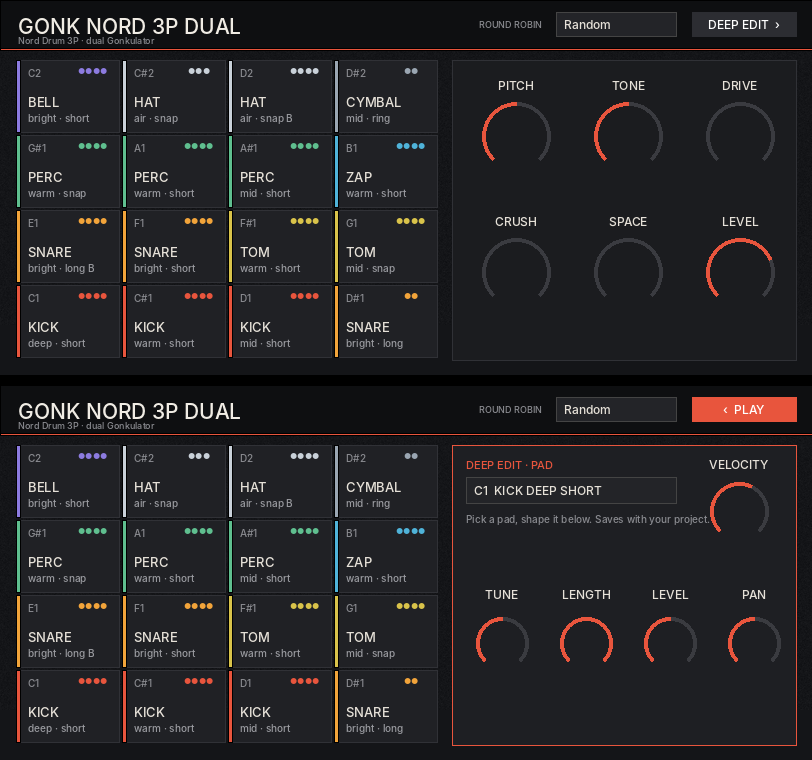
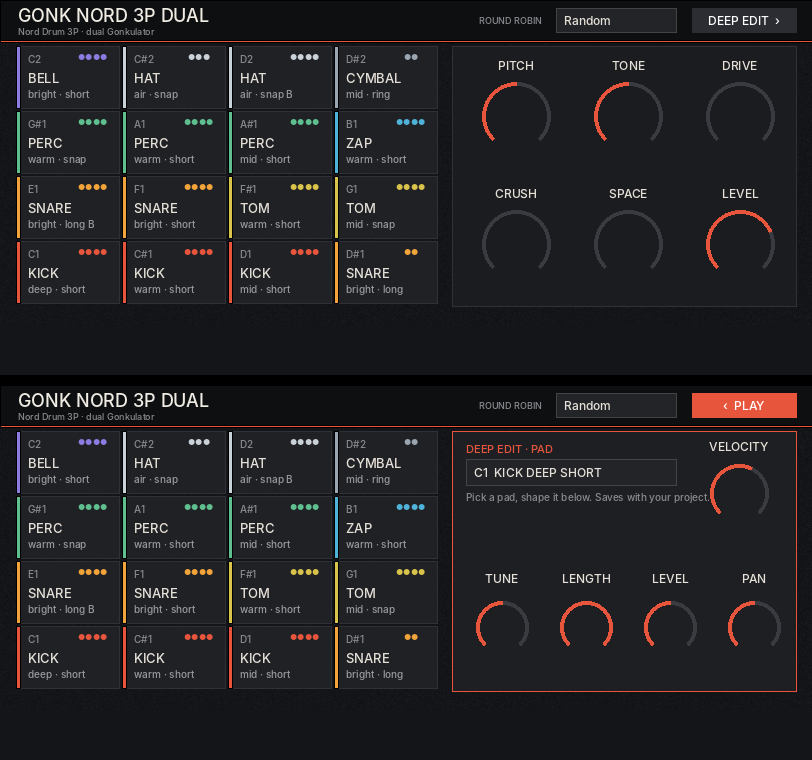
Fit layout inside DS visible area (bottom pad row was cut off)
Claude-Session: https://claude.ai/code/session_01Qtu2uooq94YghaYY32cpxf

diff --git a/pipeline/gonk_build.py b/pipeline/gonk_build.py
@@ -134,19 +134,19 @@ def build_preset(pads, kit_name, sample_dir_rel, bg_rel, cover_rel, rr_counts):
     def rect(x, y, w, h, fill, border="00000000", bt=0, extra=""):
         L.append(f'      <rectangle x="{x}" y="{y}" width="{w}" height="{h}" fillColor="{fill}" '
                  f'borderColor="{border}" borderThickness="{bt}"{extra}/>')
-    rect(0, 0, 812, 48, "FF0E0F11")
-    rect(0, 48, 812, 2, "FFE8553D")
-    rect(452, 60, 344, 300, "FF1B1C1F", "FF303136", 1)
+    rect(0, 0, 812, 40, "FF0E0F11")
+    rect(0, 40, 812, 2, "FFE8553D")
+    rect(452, 46, 344, 260, "FF1B1C1F", "FF303136", 1)
     for p in pads:
         x, y, w, h = p["cell"]
         c = "FF" + ROLE_COLOR.get(p["role"], "#888888")[1:]
         rect(x, y, w, h, "FF202125", "FF303136", 1)
         rect(x, y, 4, h, c)
-    L.append(f'      <label x="18" y="3" width="330" height="30" text={qa(kit_name.upper())} '
-             f'textColor="FFF0ECE4" textSize="22" hAlign="left"/>')
-    L.append(f'      <label x="18" y="32" width="330" height="13" text={qa(rr_counts or "")} '
+    L.append(f'      <label x="18" y="2" width="330" height="24" text={qa(kit_name.upper())} '
+             f'textColor="FFF0ECE4" textSize="19" hAlign="left"/>')
+    L.append(f'      <label x="18" y="25" width="330" height="13" text={qa(rr_counts or "")} '
              f'textColor="FF8A8B90" textSize="10" hAlign="left"/>')
-    L.append('      <label x="470" y="12" width="82" height="24" text="ROUND ROBIN" '
+    L.append('      <label x="470" y="8" width="82" height="24" text="ROUND ROBIN" '
              'textColor="FF8A8B90" textSize="10" hAlign="right"/>')
 
     # ---- pad map labels (always visible)
@@ -172,7 +172,7 @@ def build_preset(pads, kit_name, sample_dir_rel, bg_rel, cover_rel, rr_counts):
              f'translation="fixed_value" translationValue="{"true" if e else "false"}"/>'
              for t, e in zip(("rr_rand", "rr_cycle", "rr_off"), en)]
         return f'        <option name="{name}">\n' + "\n".join("          " + x for x in b) + "\n        </option>"
-    L.append('      <menu x="556" y="12" width="120" height="24" value="1" textSize="13" '
+    L.append('      <menu x="556" y="8" width="120" height="24" value="1" textSize="13" '
              'textColor="FFE6E1D8" backgroundColor="FF232428" highlightedBackgroundColor="FFE8553D" '
              'tooltip="Random: never the same hit twice in a row. Cycle: steps 1-2-3-4. Off: always the first hit.">')
     L.append(rr_opt("Random", (1, 0, 0)))
@@ -182,7 +182,7 @@ def build_preset(pads, kit_name, sample_dir_rel, bg_rel, cover_rel, rr_counts):
 
 
     # ---- front panel: six knobs, Sitala-style (few controls, each musical)
-    cols, rows = [466, 578, 690], [76, 212]
+    cols, rows = [466, 578, 690], [56, 184]
     tone_lp = ('<binding type="effect" level="instrument" effectTags="tone_lp" parameter="FX_FILTER_FREQUENCY" '
                'translation="table" translationTable="0,180;0.15,600;0.3,2200;0.45,9000;0.5,22000;1,22000"/>')
     tone_hp = ('<binding type="effect" level="instrument" effectTags="tone_hp" parameter="FX_FILTER_FREQUENCY" '
@@ -213,11 +213,11 @@ def build_preset(pads, kit_name, sample_dir_rel, bg_rel, cover_rel, rr_counts):
     L += ["      " + k for k in main]
 
     # ---- DEEP page (hidden until the button is pressed)
-    L.append('      <rectangle x="452" y="60" width="344" height="300" fillColor="FF1E1F23" '
+    L.append('      <rectangle x="452" y="46" width="344" height="260" fillColor="FF1E1F23" '
              'borderColor="FFE8553D" borderThickness="1" tags="deep" visible="false"/>')
-    L.append('      <label x="466" y="70" width="200" height="18" text="DEEP EDIT · PAD" textColor="FFE8553D" '
+    L.append('      <label x="466" y="54" width="200" height="18" text="DEEP EDIT · PAD" textColor="FFE8553D" '
              'textSize="12" hAlign="left" tags="deep" visible="false"/>')
-    L.append('      <menu x="466" y="92" width="210" height="26" value="1" textSize="13" tags="deep,padmenu" '
+    L.append('      <menu x="466" y="74" width="210" height="26" value="1" textSize="13" tags="deep,padmenu" '
              'visible="false" textColor="FFE6E1D8" backgroundColor="FF232428" '
              'highlightedBackgroundColor="FFE8553D">')
     for p in pads:
@@ -228,11 +228,11 @@ def build_preset(pads, kit_name, sample_dir_rel, bg_rel, cover_rel, rr_counts):
                  f'translation="fixed_value" translationValue="true" triggerOnLoad="false"/>')
         L.append('        </option>')
     L.append('      </menu>')
-    L.append("      " + knob(694, 70, "VELOCITY", 0, 1, 0.6,
+    L.append("      " + knob(694, 52, "VELOCITY", 0, 1, 0.6,
              ['<binding type="amp" level="instrument" position="0" parameter="AMP_VEL_TRACK"/>'],
              tags="deep", w=90, h=96, visible=False,
              tip="0 = every hit full level. 1 = fully velocity sensitive. Whole kit."))
-    L.append('      <label x="466" y="128" width="210" height="44" textColor="FF8A8B90" textSize="11" '
+    L.append('      <label x="466" y="106" width="210" height="40" textColor="FF8A8B90" textSize="11" '
              'hAlign="left" vAlign="top" tags="deep" visible="false" '
              'text="Pick a pad, shape it below. Saves with your project."/>')
     px = [460, 544, 628, 712]
@@ -240,24 +240,24 @@ def build_preset(pads, kit_name, sample_dir_rel, bg_rel, cover_rel, rr_counts):
         t = f'pk{p["pad"]:02d}'
         tg = f'groupTags="{t}"'
         L += ["      " + k for k in [
-            knob(px[0], 200, "TUNE", -24, 24, 0,
+            knob(px[0], 184, "TUNE", -24, 24, 0,
                  [f'<binding type="amp" level="group" {tg} parameter="GROUP_TUNING"/>'],
                  tags=f"pk,{t}", pname=f"{note_name(p['note'])} {p['name']} ", w=84, h=100, visible=False, snap="whole_numbers",
                  tip="Semitones. Hold Shift for fine tuning", dflt=0),
-            knob(px[1], 200, "LENGTH", 0, 1, 1,
+            knob(px[1], 184, "LENGTH", 0, 1, 1,
                  [f'<binding type="amp" level="group" {tg} parameter="ENV_DECAY" translation="table" translationTable="{LENGTH_TABLE}"/>',
                   f'<binding type="amp" level="group" {tg} parameter="ENV_RELEASE" translation="table" translationTable="{LENGTH_TABLE}"/>'],
                  tags=f"pk,{t}", pname=f"{note_name(p['note'])} {p['name']} ", w=84, h=100, visible=False, tip="Full right = the whole hit. Turn left to choke it shorter."),
-            knob(px[2], 200, "LEVEL", 0, 1, 0.5,
+            knob(px[2], 184, "LEVEL", 0, 1, 0.5,
                  [f'<binding type="amp" level="group" {tg} parameter="AMP_VOLUME" translation="table" translationTable="0,0;0.5,1;1,2.5"/>'],
                  tags=f"pk,{t}", pname=f"{note_name(p['note'])} {p['name']} ", w=84, h=100, visible=False, tip="Centre = as balanced. Right = up to +8 dB"),
-            knob(px[3], 200, "PAN", -100, 100, 0,
+            knob(px[3], 184, "PAN", -100, 100, 0,
                  [f'<binding type="amp" level="group" {tg} parameter="PAN"/>'],
                  tags=f"pk,{t}", pname=f"{note_name(p['note'])} {p['name']} ", w=84, h=100, visible=False, snap="whole_numbers", dflt=0),
         ]]
     # DEEP toggle goes LAST: on load Decent Sampler fires every control's bindings in
     # file order, so this one's 'hide deep page' must come after the pad menu's 'show pad'.
-    L.append('      <button x="692" y="12" width="104" height="24" value="0" style="text" '
+    L.append('      <button x="692" y="8" width="104" height="24" value="0" style="text" '
              'tooltip="Per-pad tune, length, level, pan + velocity response">')
     L.append('        <state name="DEEP EDIT  ›">')
     for b in (vis("main", 1), vis("deep", 0), vis("pk", 0)):
@@ -332,7 +332,7 @@ def build_preset(pads, kit_name, sample_dir_rel, bg_rel, cover_rel, rr_counts):
 def grid_cells(n):
     """4x4 pad grid, MPC order: first pad bottom-left."""
     cells = []
-    x0, y0, w, h, g = 16, 60, 103, 72, 3
+    x0, y0, w, h, g = 16, 46, 103, 62, 3
     for i in range(n):
         r, c = divmod(i, 4)
         cells.append((x0 + c * (w + g), y0 + (3 - r) * (h + g), w, h))
